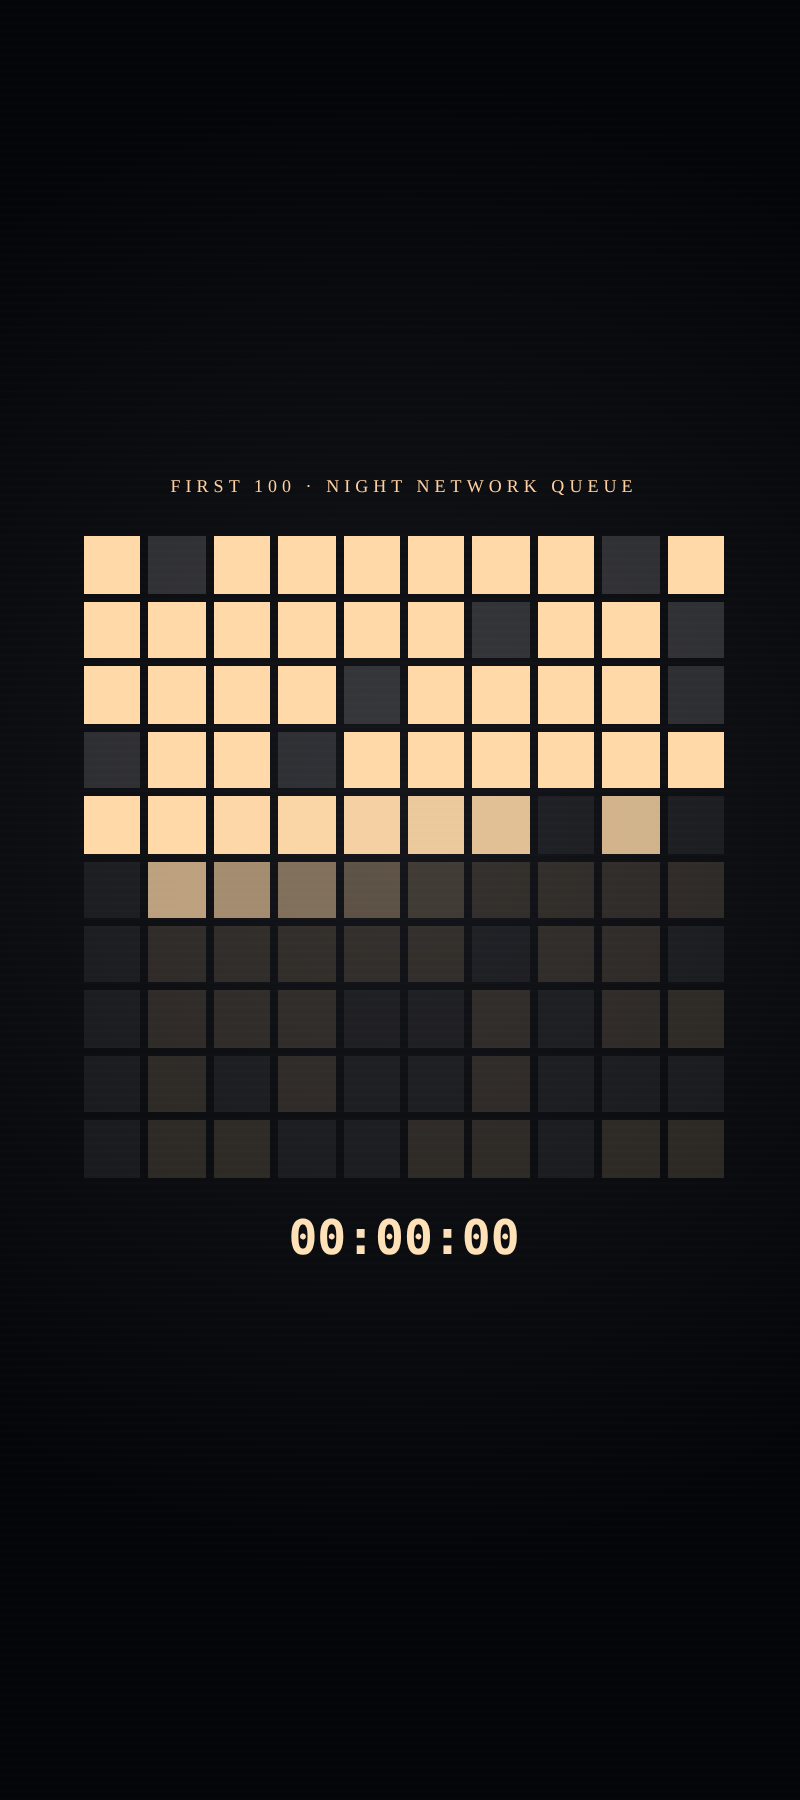
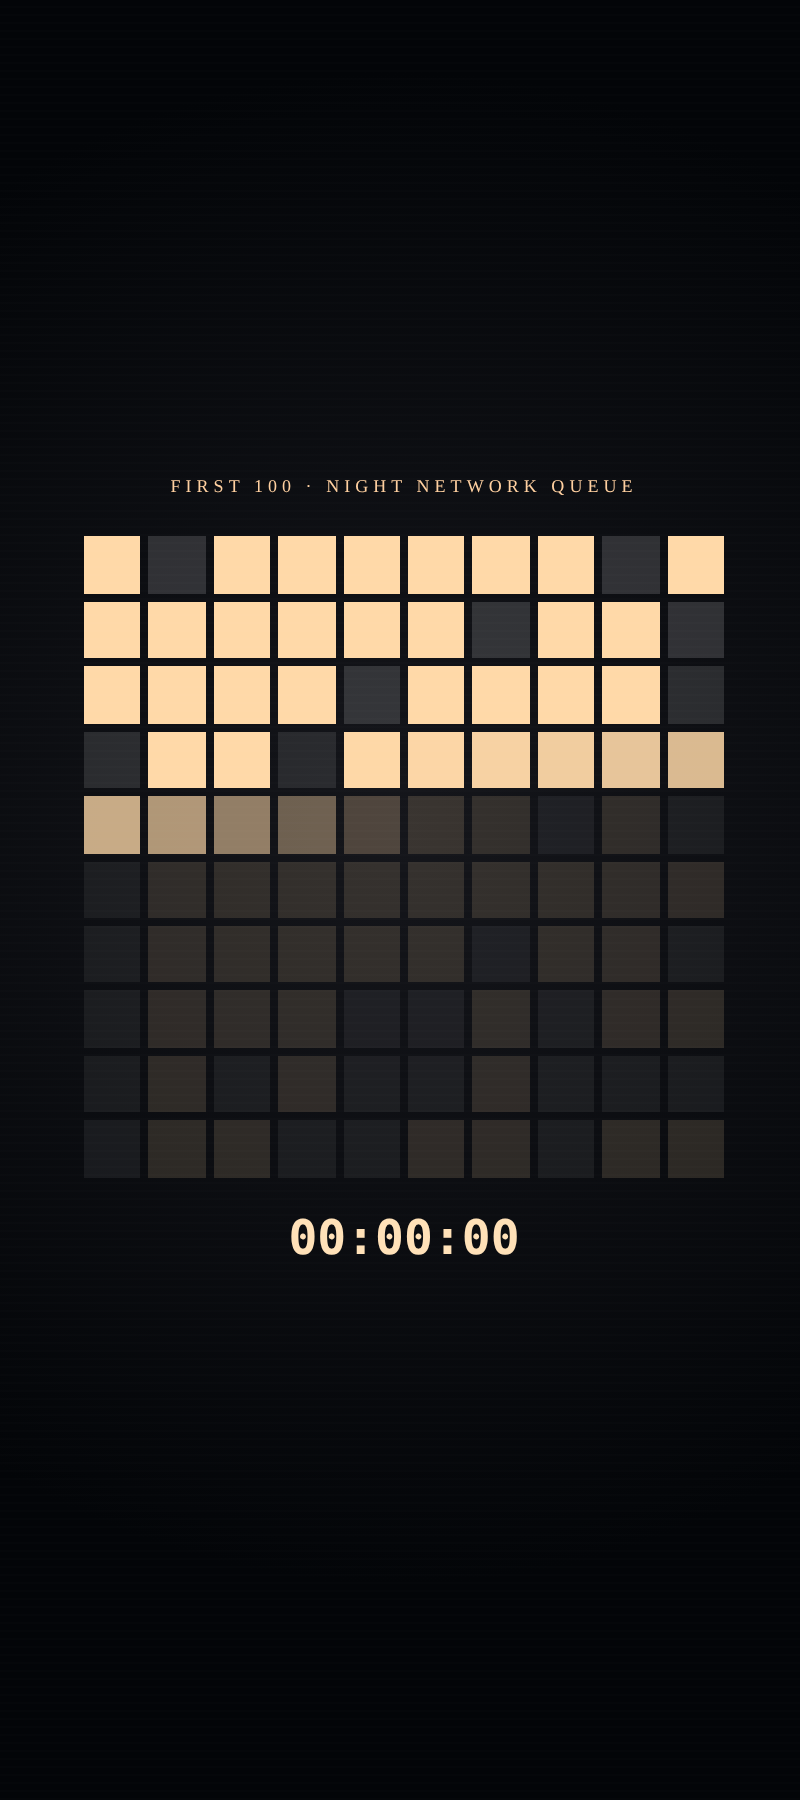
원고(검수 중): 제35화 1차 수정
Claude-Session: https://claude.ai/code/session_01X4nLMuMYWbxePuAB3DmLfi

Changed region(s): [[0.0938, 0.4356, 0.6875, 0.5289], [0.75, 0.4044, 0.9062, 0.4978]]

diff --git a/pilot.html b/pilot.html
@@ -471,7 +471,7 @@ body.ep8 .pick{border-color:#0002}body.ep8 .pick b{color:#0b6f8a}
 <div class="setpiece" id="queuejump"><div class="veil"></div><div class="sp-center"><div class="qj-wrap"><div class="sp-label">NIGHT POOL · EAST 27 · WAITLIST</div><div class="qj-line"><i></i><i></i><i></i><i></i><i></i><i></i><i></i><i></i><i></i><i></i><i></i><i></i><i></i><i></i><i></i><i class="gap"></i><i></i><i></i><i></i><i></i><b class="qj-me"></b><span class="qj-tag">R-17</span></div><div class="qj-copy">줄은 그대로였다.<br><b>앞자리만 하나 먼저 찼다.</b></div></div></div></div>
 <div class="setpiece" id="twoprices"><div class="veil"></div><div class="sp-center"><div class="tp-wrap"><div class="sp-label">ONE NIGHT · TWO PRICES</div><div class="tp-row"><div class="tp-slip a"><small>MOTHER · SURVEY REWARD</small><p>3 QUESTIONS</p><p>MARKET ZONE 3</p><p>PRICE SET BY: —</p><span class="tp-amt">+3.0</span></div><div class="tp-slip b"><small>MARKET · NEW LISTING</small><p>TESTIMONY · AGE 12</p><p>INQUIRIES 11</p><p>PRICE SET BY: MARKET</p><span class="tp-amt">4,200</span></div></div></div></div></div>
 <div class="setpiece" id="eightmin"><div class="veil"></div><div class="sp-center"><div class="em-wrap"><div class="sp-label">EAST 27 · 21 YEARS · WALKING RADIUS</div><div class="em-map"><i class="em-ring r1"></i><i class="em-ring r2"></i><i class="em-ring r3"></i><i class="em-home"></i><span class="em-pin p1">PHARMACY 1 MIN</span><span class="em-pin p2">MARKET 3 MIN</span><span class="em-pin p3">HOSPITAL 8 MIN</span></div><div class="em-offer">OFFER · 12 MONTHS RESIDENCY<br>HOSPITAL 1 MIN · SECURITY 24H · RENT FROZEN<br>NEIGHBORS: <b>0</b></div></div></div></div>
-<div class="setpiece" id="tensec"><div class="veil"></div><div class="sp-center"><div class="ts-wrap"><div class="sp-label">FIRST 100 · NIGHT NETWORK QUEUE</div><div class="ts-grid"><i class="k" style="animation-delay:0.40s"></i><i class="o" style="animation-delay:0.52s"></i><i class="k" style="animation-delay:0.42s"></i><i class="k" style="animation-delay:0.44s"></i><i class="k" style="animation-delay:0.46s"></i><i class="k" style="animation-delay:0.48s"></i><i class="k" style="animation-delay:0.50s"></i><i class="k" style="animation-delay:0.52s"></i><i class="o" style="animation-delay:0.62s"></i><i class="k" style="animation-delay:0.54s"></i><i class="k" style="animation-delay:0.56s"></i><i class="k" style="animation-delay:0.58s"></i><i class="k" style="animation-delay:0.60s"></i><i class="k" style="animation-delay:0.62s"></i><i class="k" style="animation-delay:0.64s"></i><i class="k" style="animation-delay:0.66s"></i><i class="o" style="animation-delay:0.74s"></i><i class="k" style="animation-delay:0.68s"></i><i class="k" style="animation-delay:0.70s"></i><i class="o" style="animation-delay:0.78s"></i><i class="k" style="animation-delay:0.72s"></i><i class="k" style="animation-delay:0.74s"></i><i class="k" style="animation-delay:0.76s"></i><i class="k" style="animation-delay:0.78s"></i><i class="o" style="animation-delay:0.86s"></i><i class="k" style="animation-delay:0.80s"></i><i class="k" style="animation-delay:0.82s"></i><i class="k" style="animation-delay:0.84s"></i><i class="k" style="animation-delay:0.86s"></i><i class="o" style="animation-delay:0.94s"></i><i class="o" style="animation-delay:0.95s"></i><i class="k" style="animation-delay:0.88s"></i><i class="k" style="animation-delay:0.90s"></i><i class="o" style="animation-delay:0.99s"></i><i class="k" style="animation-delay:0.92s"></i><i class="k" style="animation-delay:0.94s"></i><i class="k" style="animation-delay:0.96s"></i><i class="k" style="animation-delay:0.98s"></i><i class="k" style="animation-delay:1.00s"></i><i class="k" style="animation-delay:1.02s"></i><i class="k" style="animation-delay:1.04s"></i><i class="k" style="animation-delay:1.06s"></i><i class="k" style="animation-delay:1.08s"></i><i class="k" style="animation-delay:1.10s"></i><i class="k" style="animation-delay:1.12s"></i><i class="k" style="animation-delay:1.14s"></i><i class="k" style="animation-delay:1.16s"></i><i class="o" style="animation-delay:1.21s"></i><i class="k" style="animation-delay:1.18s"></i><i class="o" style="animation-delay:1.23s"></i><i class="o" style="animation-delay:1.25s"></i><i class="k" style="animation-delay:1.20s"></i><i class="k" style="animation-delay:1.22s"></i><i class="k" style="animation-delay:1.24s"></i><i class="k" style="animation-delay:1.26s"></i><i class="k" style="animation-delay:1.28s"></i><i class="k" style="animation-delay:1.30s"></i><i class="k" style="animation-delay:1.32s"></i><i class="k" style="animation-delay:1.34s"></i><i class="k" style="animation-delay:1.36s"></i><i class="o" style="animation-delay:1.40s"></i><i class="k" style="animation-delay:1.38s"></i><i class="k" style="animation-delay:1.40s"></i><i class="k" style="animation-delay:1.42s"></i><i class="k" style="animation-delay:1.44s"></i><i class="k" style="animation-delay:1.46s"></i><i class="o" style="animation-delay:1.49s"></i><i class="k" style="animation-delay:1.48s"></i><i class="k" style="animation-delay:1.50s"></i><i class="o" style="animation-delay:1.53s"></i><i class="o" style="animation-delay:1.55s"></i><i class="k" style="animation-delay:1.52s"></i><i class="k" style="animation-delay:1.54s"></i><i class="k" style="animation-delay:1.56s"></i><i class="o" style="animation-delay:1.61s"></i><i class="o" style="animation-delay:1.62s"></i><i class="k" style="animation-delay:1.58s"></i><i class="o" style="animation-delay:1.66s"></i><i class="k" style="animation-delay:1.60s"></i><i class="k" style="animation-delay:1.62s"></i><i class="o" style="animation-delay:1.70s"></i><i class="k" style="animation-delay:1.64s"></i><i class="o" style="animation-delay:1.73s"></i><i class="k" style="animation-delay:1.66s"></i><i class="o" style="animation-delay:1.76s"></i><i class="o" style="animation-delay:1.77s"></i><i class="k" style="animation-delay:1.68s"></i><i class="o" style="animation-delay:1.80s"></i><i class="o" style="animation-delay:1.82s"></i><i class="o" style="animation-delay:1.83s"></i><i class="o" style="animation-delay:1.85s"></i><i class="k" style="animation-delay:1.70s"></i><i class="k" style="animation-delay:1.72s"></i><i class="o" style="animation-delay:1.90s"></i><i class="o" style="animation-delay:1.91s"></i><i class="k" style="animation-delay:1.74s"></i><i class="k" style="animation-delay:1.76s"></i><i class="o" style="animation-delay:1.95s"></i><i class="k" style="animation-delay:1.78s"></i><i class="k" style="animation-delay:1.80s"></i></div><div class="ts-time"><span class="ts-t1">00:00:00</span><span class="ts-t2">23:59:50</span></div><div class="ts-tag"><span>K-7 <b>71 / 100</b></span><span>OPENING <b>−10 s</b></span></div></div></div></div>
+<div class="setpiece" id="tensec"><div class="veil"></div><div class="sp-center"><div class="ts-wrap"><div class="sp-label">FIRST 100 · NIGHT NETWORK QUEUE</div><div class="ts-grid"><i class="k" style="animation-delay:0.40s"></i><i class="o" style="animation-delay:0.52s"></i><i class="k" style="animation-delay:0.42s"></i><i class="k" style="animation-delay:0.44s"></i><i class="k" style="animation-delay:0.46s"></i><i class="k" style="animation-delay:0.48s"></i><i class="k" style="animation-delay:0.50s"></i><i class="k" style="animation-delay:0.52s"></i><i class="o" style="animation-delay:0.62s"></i><i class="k" style="animation-delay:0.54s"></i><i class="k" style="animation-delay:0.56s"></i><i class="k" style="animation-delay:0.58s"></i><i class="k" style="animation-delay:0.60s"></i><i class="k" style="animation-delay:0.62s"></i><i class="k" style="animation-delay:0.64s"></i><i class="k" style="animation-delay:0.66s"></i><i class="o" style="animation-delay:0.74s"></i><i class="k" style="animation-delay:0.68s"></i><i class="k" style="animation-delay:0.70s"></i><i class="o" style="animation-delay:0.78s"></i><i class="k" style="animation-delay:0.72s"></i><i class="k" style="animation-delay:0.74s"></i><i class="k" style="animation-delay:0.76s"></i><i class="k" style="animation-delay:0.78s"></i><i class="o" style="animation-delay:0.86s"></i><i class="k" style="animation-delay:0.80s"></i><i class="k" style="animation-delay:0.82s"></i><i class="k" style="animation-delay:0.84s"></i><i class="k" style="animation-delay:0.86s"></i><i class="o" style="animation-delay:0.94s"></i><i class="o" style="animation-delay:0.95s"></i><i class="k" style="animation-delay:0.88s"></i><i class="k" style="animation-delay:0.90s"></i><i class="o" style="animation-delay:0.99s"></i><i class="k" style="animation-delay:0.92s"></i><i class="k" style="animation-delay:0.94s"></i><i class="k" style="animation-delay:0.96s"></i><i class="k" style="animation-delay:0.98s"></i><i class="k" style="animation-delay:1.00s"></i><i class="k" style="animation-delay:1.02s"></i><i class="k" style="animation-delay:1.04s"></i><i class="k" style="animation-delay:1.06s"></i><i class="k" style="animation-delay:1.08s"></i><i class="k" style="animation-delay:1.10s"></i><i class="k" style="animation-delay:1.12s"></i><i class="k" style="animation-delay:1.14s"></i><i class="k" style="animation-delay:1.16s"></i><i class="o" style="animation-delay:1.21s"></i><i class="k" style="animation-delay:1.18s"></i><i class="o" style="animation-delay:1.23s"></i><i class="o" style="animation-delay:1.25s"></i><i class="k" style="animation-delay:1.20s"></i><i class="k" style="animation-delay:1.22s"></i><i class="k" style="animation-delay:1.24s"></i><i class="k" style="animation-delay:1.26s"></i><i class="k" style="animation-delay:1.28s"></i><i class="k" style="animation-delay:1.30s"></i><i class="k" style="animation-delay:1.32s"></i><i class="k" style="animation-delay:1.34s"></i><i class="k" style="animation-delay:1.36s"></i><i class="o" style="animation-delay:1.40s"></i><i class="k" style="animation-delay:1.38s"></i><i class="k" style="animation-delay:1.40s"></i><i class="k" style="animation-delay:1.42s"></i><i class="k" style="animation-delay:1.44s"></i><i class="k" style="animation-delay:1.46s"></i><i class="o" style="animation-delay:1.49s"></i><i class="k" style="animation-delay:1.48s"></i><i class="k" style="animation-delay:1.50s"></i><i class="o" style="animation-delay:1.53s"></i><i class="o" style="animation-delay:1.55s"></i><i class="k" style="animation-delay:1.52s"></i><i class="k" style="animation-delay:1.54s"></i><i class="k" style="animation-delay:1.56s"></i><i class="o" style="animation-delay:1.61s"></i><i class="o" style="animation-delay:1.62s"></i><i class="k" style="animation-delay:1.58s"></i><i class="o" style="animation-delay:1.66s"></i><i class="k" style="animation-delay:1.60s"></i><i class="k" style="animation-delay:1.62s"></i><i class="o" style="animation-delay:1.70s"></i><i class="k" style="animation-delay:1.64s"></i><i class="o" style="animation-delay:1.73s"></i><i class="k" style="animation-delay:1.66s"></i><i class="o" style="animation-delay:1.76s"></i><i class="o" style="animation-delay:1.77s"></i><i class="k" style="animation-delay:1.68s"></i><i class="o" style="animation-delay:1.80s"></i><i class="o" style="animation-delay:1.82s"></i><i class="o" style="animation-delay:1.83s"></i><i class="o" style="animation-delay:1.85s"></i><i class="k" style="animation-delay:1.70s"></i><i class="k" style="animation-delay:1.72s"></i><i class="o" style="animation-delay:1.90s"></i><i class="o" style="animation-delay:1.91s"></i><i class="k" style="animation-delay:1.74s"></i><i class="k" style="animation-delay:1.76s"></i><i class="o" style="animation-delay:1.95s"></i><i class="k" style="animation-delay:1.78s"></i><i class="k" style="animation-delay:1.80s"></i></div><div class="ts-time"><span class="ts-t1">00:00:00</span><span class="ts-t2">00:00:03</span></div><div class="ts-tag"><span>FAST SLOT · 3 s</span><span>ONE ADDRESS GROUP</span></div></div></div></div>
 <div class="setpiece" id="namereleased"><div class="veil"></div><div class="sp-center"><div class="nr-wrap"><div class="sp-label">TRADE NAME · CLAIM</div><div class="nr-term">서인 방식<span class="nr-tm">CLAIM</span></div><div class="nr-row"><span>CLAIMANT</span><span class="nr-own-w"><span class="nr-own">서인</span><span class="nr-own2">WITHDRAWN</span></span></div><div class="nr-gen">UNPROTECTED</div></div></div></div>
 <div class="setpiece" id="samepause"><div class="veil"></div><div class="sp-center"><div class="sp3-wrap"><div class="sp-label" style="text-align:center">TYPING PAUSE · 4 OF 2,100</div><div class="sp3-card"><div class="sp3-row"><em>0512</em><i style="left:10%;width:18%"></i><i style="left:30%;width:16%"></i><i style="left:48%;width:8%"></i><i style="left:70%;width:24%"></i></div><div class="sp3-row"><em>0519</em><i style="left:12%;width:12%"></i><i style="left:24%;width:22%"></i><i style="left:48%;width:8%"></i><i style="left:70%;width:24%"></i></div><div class="sp3-row"><em>0502</em><i style="left:12%;width:10%"></i><i style="left:24%;width:24%"></i><i style="left:48%;width:8%"></i><i style="left:70%;width:24%"></i></div><div class="sp3-row"><em>0526</em><i style="left:8%;width:20%"></i><i style="left:32%;width:14%"></i><i style="left:48%;width:8%"></i><i style="left:70%;width:24%"></i></div><div class="sp3-line"></div><div class="sp3-tag"><span>PAUSE <b>3.0 s</b> · SAME OFFSET</span><span>HUMAN-LIKE: SYNTHETIC</span></div></div></div></div></div>
 <div class="setpiece" id="emptyfloor"><div class="veil"></div><div class="sp-center"><div class="ef-wrap"><div class="sp-label">EAST 27 · BLDG</div><div class="ef-bld"><div class="ef-w on"></div><div class="ef-w off5"></div><div class="ef-w on"></div><div class="ef-w on"></div><div class="ef-w on"></div><div class="ef-w on"></div></div><div class="ef-lbl"><span>TOP ROW · 502 <b>MOVED OUT</b></span><span>LOWER ROW · 402 <b>STAYED</b></span></div></div></div></div>
@@ -518,7 +518,7 @@ const D={
 32:{a:'#ffd6a4',b:'#9db8ff',token:'∞',sync:6,ghost:'502',hook:'항목: 단체방 참여 기록.',sp:'emptyfloor',at:.78,on:"두 칸이 비어 있었다.",w:1400},
 33:{a:'#ffdca8',b:'#a4c4ff',token:'∞',sync:5,ghost:'3.0 s',hook:'어머니는 그 세 개는 자기가 아니라고 했다.',sp:'samepause',at:.30,on:"같은 구간에서 같은 만큼 멈췄다.",w:1400},
 34:{a:'#ffd2a2',b:'#a6bfff',token:'∞',sync:4,ghost:'WITHDRAWN',hook:'서인.',sp:'namereleased',at:.80,on:"청구를 취하합니다.",w:1400},
-35:{a:'#ffd0a0',b:'#a2bcff',token:'∞',sync:3,ghost:'23:59:50',hook:'신청 개시 시각은 오늘부터 23시 59분 50초였다.',sp:'tensec',at:.45,on:"0시.",w:1400}
+35:{a:'#ffd0a0',b:'#a2bcff',token:'∞',sync:3,ghost:'23:59:50',hook:'열두 시 정각에 맞춰 손가락을 올리던 노인들은 오늘부터 이미 10초 늦었다.',sp:'tensec',at:.52,on:"저 문 안에서 눌렀군요.",w:1400}
 };
 const esc=s=>s.replace(/[&<>]/g,c=>({'&':'&amp;','<':'&lt;','>':'&gt;'}[c]));
 function inline(s){return esc(s).replace(/\*\*(.+?)\*\*/g,'<strong>$1</strong>')}
@@ -564,7 +564,7 @@ const KEY={
 32:['“위층이 빌 줄은 몰랐네.”','“그건 그냥 쓸쓸한 거야. 이사하고 싶은 거랑은 다른 거고.”'],
 33:['“그리고 그건 제 흔적이 아니잖아요.”','“제가 쓰는 거니까요.”'],
 34:['“알아보면 안 팔게 될까 봐서요.”','“이름은 가진 적이 없어요.”'],
-35:['“그럼 번호 하나가 3주를 사는 거네.”','“줄이 저런 줄인 줄은 몰랐네.”']
+35:['“그럼 번호 하나가 25일을 사는 거네.”','“줄이 저런 줄인 줄은 몰랐네.”']
 };
 // '0.8초.' '침묵.' '1초.'처럼 한 줄로 떨어진 시간은 이야기 속 멈춤이다. 독자도 그만큼 기다린다.
 function beatMs(x){if(x==='침묵.')return 600;const m=x.match(/^(\d+(?:\.\d+)?)초\.$/);return m?Math.min(1000,Math.round(+m[1]*1000)):0}

diff --git a/manuscript/ep035.md b/manuscript/ep035.md
@@ -48,15 +48,15 @@
 
 단체방 캡처였다.
 
-**야간망 참여 순번 안내. 대기 600번대 즉시 가능. 수수료 38.**
+**야간망 신속 배정 순번 안내. 600번대 즉시 가능. 수수료 38.**
 
-**1,208번은 3주, 600번대는 이틀입니다.**
+**일반 대기는 25일, 신속 배정은 다음 날입니다.**
 
 “저희 단지에서도 돌아요.”
 
 정미경이 말했다.
 
-“옆 동 아줌마가 38 내고 앞 번호로 바꿨대요. 야간망 참여가 시작되면 하루 3씩 번다잖아요. 38이면 열세 번 하면 본전이고.”
+“옆 동 아줌마가 38 내고 신속 배정으로 바꿨대요. 야간망 참여가 시작되면 하루 3씩 번다잖아요. 38이면 열세 번 하면 본전이고.”
 
 “번호를 바꿔요?”
 
@@ -72,7 +72,7 @@
 
 정미경이 말했다.
 
-“걸리면 다은이 번호까지 날아가는 거 아니에요?”
+“걸리면 다은이 번호까지 날아가는 거 아니에요? 걔는 일반 대기로 1만 번대인데.”
 
 어머니가 달걀 두 판을 상자에 담으며 말했다.
 
@@ -86,13 +86,13 @@
 
 “일곱 판 반.”
 
-“일곱 판 반 내고 이틀 빨리 가는 거면 나쁘진 않네.”
+“일곱 판 반 내고 25일 빨리 가는 거면 나쁘진 않네.”
 
 “나쁜 거예요.”
 
 “누구한테.”
 
-서인은 대답을 하지 못했다.
+서인은 달걀 상자 뚜껑을 닫았다.
 
 ***
 
@@ -102,7 +102,7 @@
 
 그래프 한가운데에 눈에 띄는 계단이 있었다.
 
-시행 이후 한 달 남짓 대기 인원이 하루 평균 410명씩 늘었다.
+시행 이후 열여드레 동안 대기 인원이 하루 평균 410명씩 늘었다.
 
 승인 상한은 400이었다.
 
@@ -111,6 +111,8 @@
 “줄지 않습니다.”
 
 윤세라가 화면 앞에서 말했다.
+
+“대기열은 하나이고 번호 순으로 하루 400명씩 승인합니다. 지금 새로 접수하면 맨 끝 1만 번대에 붙어 승인까지 25일이 걸리고요. 대신 매일 0시 접수 앞 400번은 ‘신속 배정’으로 다음 날 승인됩니다. 앞 번호일수록 심야 가산 시간대를 받고요.”
 
 “시범 때 6,214가구의 고부하 할당을 낮춘 뒤, 야간망이 힘들지 않다는 소문이 번졌습니다. 신청자가 늘었습니다.”
 
@@ -124,17 +126,17 @@
 
 그녀는 두 번째 표를 띄웠다.
 
-**신청 개시 0시 00분 00~03초 접수 번호.**
+**신속 배정 접수 0시 00분 00~03초.**
 
 **1~100번 중 71개 계정이 같은 상가 주소 군에서 접수.**
 
-“새벽 0시 정각에 신청이 열립니다. 첫 3초 안에 앞 번호의 70퍼센트가 같은 곳에서 들어옵니다.”
+“첫 3초 안에 앞 번호의 70퍼센트가 같은 곳에서 들어옵니다.”
 
 “그곳이 어디예요?”
 
 “동부 27번 시장 2층입니다.”
 
-서인은 화면을 다시 봤다.
+서인은 ‘시장 2층’이라는 글자를 손끝으로 짚었다.
 
 어머니 단지에서 걸어서 3분이었다.
 
@@ -165,6 +167,10 @@
 “가 보자며.”
 
 시장 2층 복도는 불이 반만 켜져 있었다.
+
+보호 알림은 한 번도 울리지 않았다.
+
+그게 이 복도가 이미 누군가의 영역이라는 뜻일 수도 있었다.
 
 어머니는 겉옷을 두껍게 입고 서인 옆에서 걸었다.
 
@@ -232,7 +238,7 @@
 
 “다른 방이 있으니까요.”
 
-서인은 복도 안쪽을 봤다.
+서인은 복도 안쪽으로 한 걸음 걸어갔다.
 
 방문 하나가 더 있었다.
 
@@ -244,7 +250,7 @@
 
 주경태가 벽에 붙은 종이를 턱짓했다.
 
-**100번 안 140. 200번대 90. 300번대 55.**
+**신속 100번 안 140. 200번대 90. 300번대 55.**
 
 “우리는 번호를 안 팔아요. 눌러 주는 값만 받고요. 저쪽은 번호를 팔고요.”
 
@@ -284,7 +290,7 @@
 
 주경태가 말했다.
 
-“저는 신호만 줍니다. 눌러 드리는 건 제가 아니라 어르신들 손이에요.”
+“저는 신호만 줍니다.”
 
 “그래야 법에 안 걸려요?”
 
@@ -358,19 +364,17 @@
 
 “응.”
 
-“우리 이웃 할아버지는 1,100번대인데.”
+“우리 이웃 할아버지는 1만 번대라 25일 걸린다던데.”
 
 어머니가 서인을 올려다봤다.
 
-“이 번호는 3주 뒤에 시작해?”
+“이 번호는 내일부터 시작해?”
 
-“3주 뒤.”
+“내일부터.”
 
-“그럼 번호 하나가 3주를 사는 거네.”
+“그럼 번호 하나가 25일을 사는 거네.”
 
 어머니는 그 말을 하고는 입을 다물었다.
-
-그 말에는 숫자가 없었다.
 
 ***
 
@@ -378,7 +382,7 @@
 
 서인은 윤세라에게 메시지를 보냈다.
 
-**신청 개시를 0시 정각 선착순에서 24시간 개방 후 추첨으로 바꾸는 항목 분리 요청서를 접수합니다.**
+**신청 개시를 0시 정각 선착순에서 24시간 개방 후 추첨으로 바꾸는 개시 방식 변경 요청서를 접수합니다.**
 
 답은 바로 왔다.
 
@@ -450,7 +454,7 @@
 
 집에 돌아와 불을 끄려는데 알림이 떴다.
 
-**항목 분리 요청서 처리 현황: 접수 완료.**
+**개시 방식 변경 요청서 처리 현황: 접수 완료.**
 
 바로 아래에 줄이 하나 더 있었다.
 
@@ -468,9 +472,9 @@
 
 서인은 윤세라에게 전화를 걸었다.
 
-받지 않았다.
+취침 시간대 자동 응답으로 넘어갔다.
 
-위험관리 당직 번호로 걸자 자동 응답이 말했다.
+위험관리 당직 번호로 걸자 다른 자동 응답이 말했다.
 
 “신청 개시 시각은 운영 정책이 아니라 시스템 설정 소관입니다.”
 
@@ -478,4 +482,4 @@
 
 “변경자 정보는 비공개입니다.”
 
-신청 개시 시각은 오늘부터 23시 59분 50초였다.
+열두 시 정각에 맞춰 손가락을 올리던 노인들은 오늘부터 이미 10초 늦었다.
